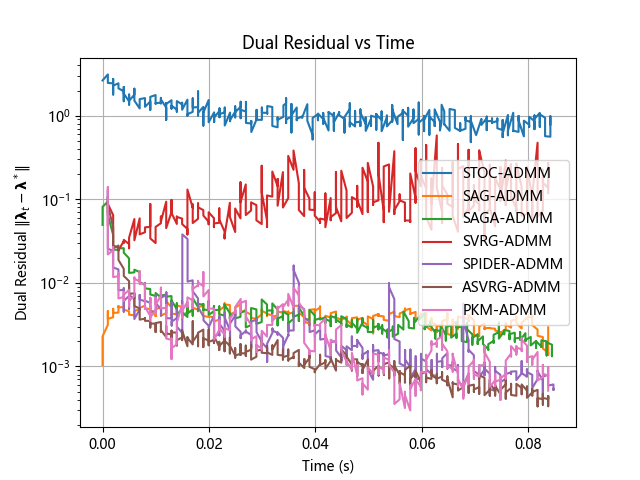
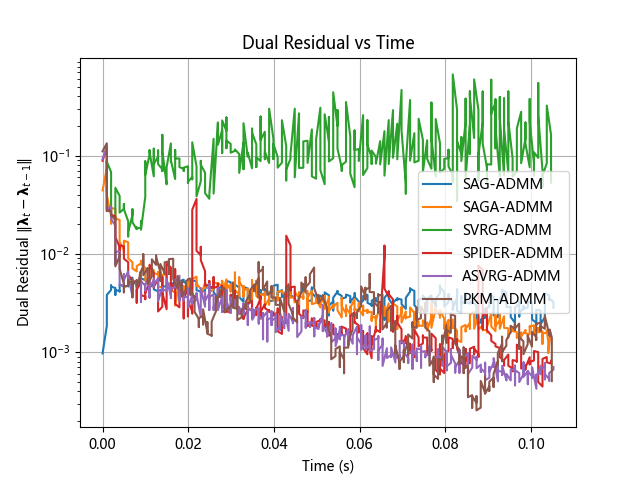
随机ADMM求解GGLR问题已经完成

diff --git a/GGLR_ADMM_Experiments/utils/plot_utils.py b/GGLR_ADMM_Experiments/utils/plot_utils.py
@@ -45,7 +45,7 @@ def plot_convergence_curves_by_epoch(results, algo_names):
         plt.plot(res["dual"], label=name)
     plt.yscale("log")
     plt.xlabel("Epochs")
-    plt.ylabel("Dual Residual " + r"$\| \boldsymbol{\lambda}_{t} - \boldsymbol{\lambda}^* \|$")
+    plt.ylabel("Dual Residual " + r"$\| \boldsymbol{\lambda}_{t} - \boldsymbol{\lambda}_{t-1} \|$")
     plt.title("Dual Residual Convergence Curve vs. Epochs")
     # plt.legend()
     plt.legend(loc='center right') 
@@ -114,7 +114,7 @@ def plot_convergence_curves_by_time(results, algo_names, save_dir="results"):
         plt.plot(filtered_time, filtered_dual, label=name)
     plt.yscale("log")
     plt.xlabel("Time (s)")
-    plt.ylabel("Dual Residual " + r"$\| \boldsymbol{\lambda}_{t} - \boldsymbol{\lambda}^* \|$")
+    plt.ylabel("Dual Residual " + r"$\| \boldsymbol{\lambda}_{t} - \boldsymbol{\lambda}_{t-1} \|$")
     plt.title("Dual Residual vs Time")
     # plt.legend()
     plt.legend(loc='center right') 

diff --git a/GGLR_ADMM_Experiments/main.py b/GGLR_ADMM_Experiments/main.py
@@ -15,7 +15,7 @@ from algorithms.pkm_admm import pkm_admm
 
 # 算法名称与函数的映射关系
 ALGO_MAP = {
-    "STOC-ADMM": stochastic_admm,
+    # "STOC-ADMM": stochastic_admm,
     "SAG-ADMM": sag_admm,
     "SAGA-ADMM": saga_admm,
     "SVRG-ADMM": svrg_admm,

diff --git a/GGLR_ADMM_Experiments/config.py b/GGLR_ADMM_Experiments/config.py
@@ -56,7 +56,7 @@ ALGO_PARAMS = {
         "batch_size": 32,
         "gamma": 1.0,
         "inner_iter": 10,
-        "theta": 0.7
+        "theta": 0.48
     },
     "PKM-ADMM": {
         "mu1": 1e-3,
